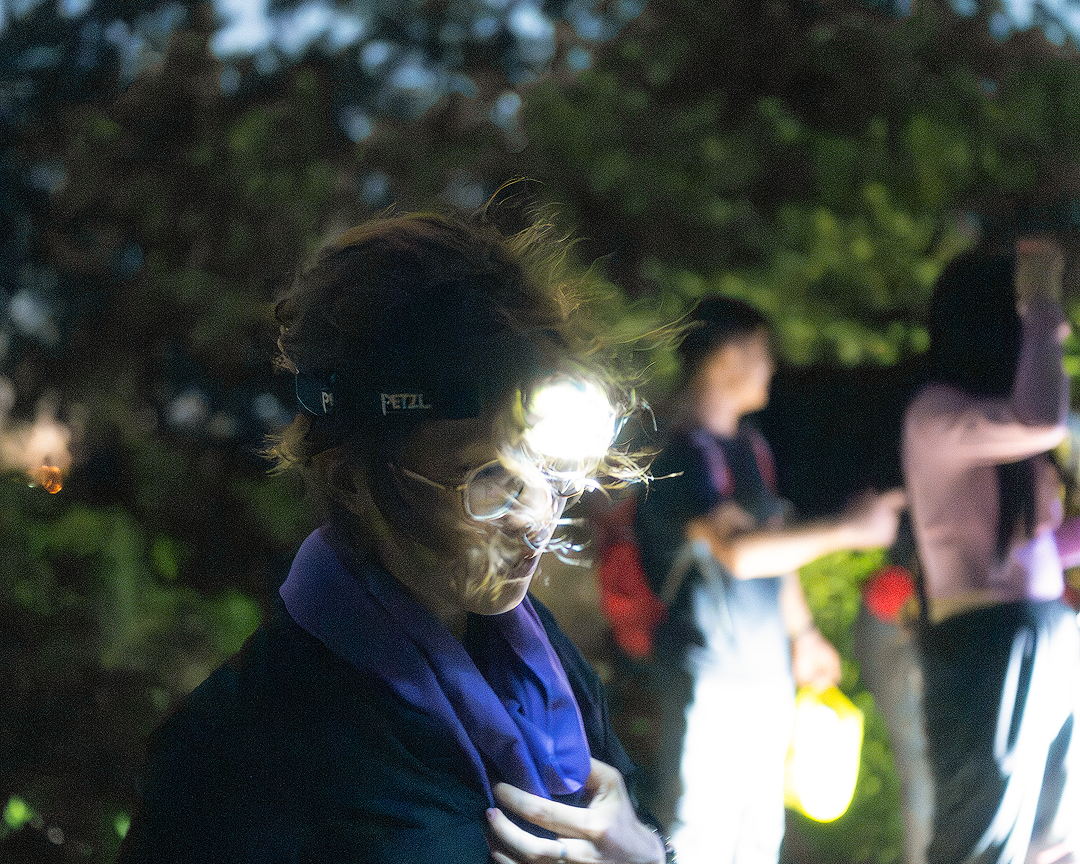
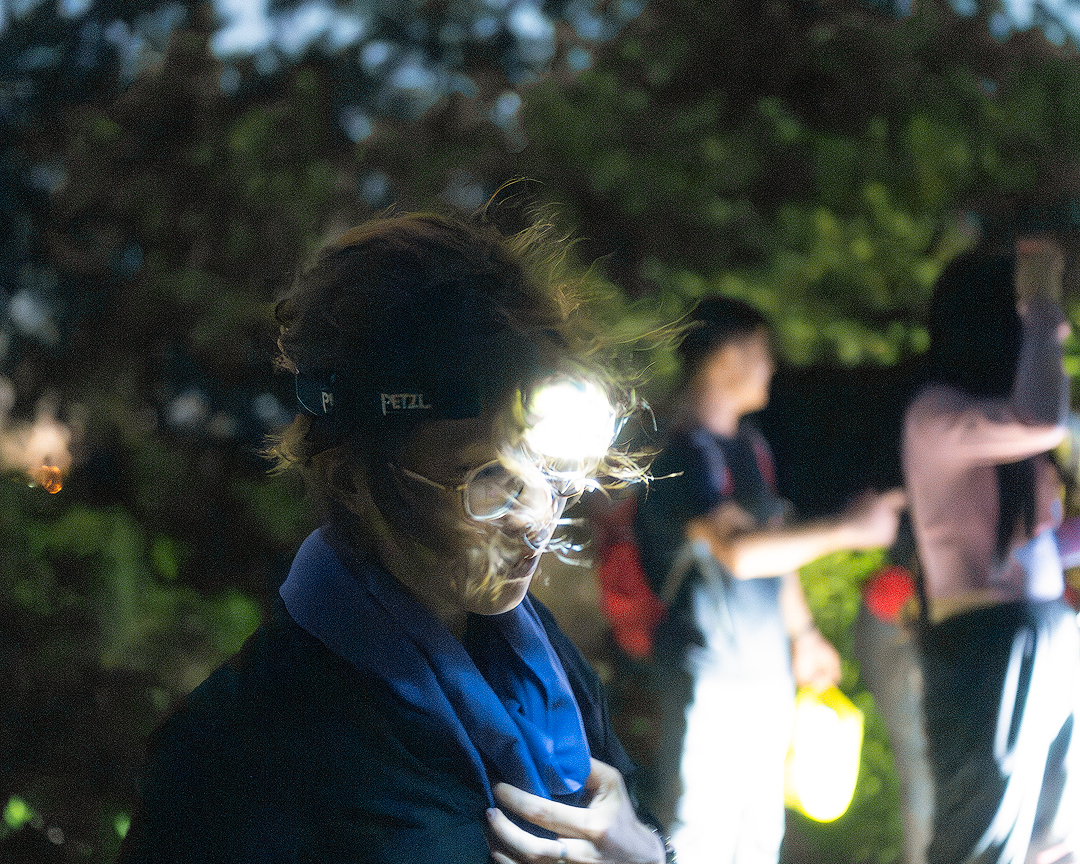
更新照片

Changed region(s): [[0.3667, 0.6875, 0.55, 0.9375], [0.9167, 0.5938, 1.0, 0.6875], [0.6417, 0.5312, 0.6722, 0.5625]]

diff --git a/pages/hualang.js b/pages/hualang.js
@@ -19,7 +19,7 @@ const Hualang = () => {
     { src:'/在赛里木湖遇见的女孩.jpg', title:'在赛里木湖遇见的小孩', description:'null' },
     { src:'/树枝剪影SDRP3101.jpg', title:'树枝剪影', description:'null' },
     { src:'/布达拉宫sRGBJPG10.JPG', title:'布达拉宫', description:'null' },
-    { src:'/姊妹湖SDRsRGB10.jpg', title:'姊妹湖', description:'null' },
+    { src:'/姊妹湖高反差-强光.jpg', title:'姊妹湖', description:'null' },
     { src:'/雪山徒步.jpg', title:'在雪山徒步', description:'null' },
     { src:'/60岁哈族牧民究极锐化.jpg', title:'牧民', description:'null' },
     { src:'/牧民房究极锐化.jpg', title:'山顶的牧民房', description:'null' },
